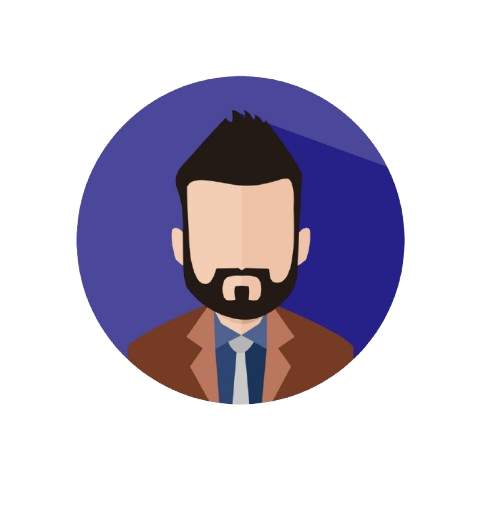
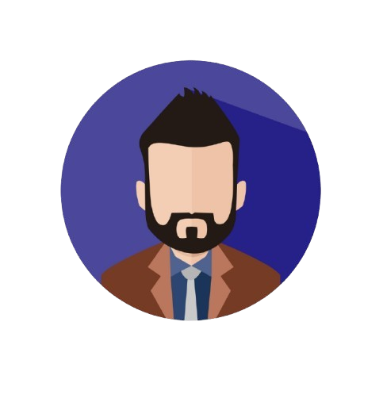
task done

diff --git a/Next.js Work/FE-BE-strapi5/frontend/src/components/Category.jsx b/Next.js Work/FE-BE-strapi5/frontend/src/components/Category.jsx
@@ -1,11 +1,245 @@
-import React from 'react'
+"use client";
 
-const Category = () => {
-  return (
-    <div>
-      Hello Category! 
-    </div>
-  )
-}
+import React, { useState, useEffect } from "react";
+import Layout from "../components/Layout";
+import axios from "axios";
 
-export default Category
+const Category = () => 
+{
+    const [categories, setCategories] = useState([]);
+    const [loading, setLoading] = useState(true);  
+    const [error, setError] = useState(null);
+    const [searchTerm, setSearchTerm] = useState("");
+    const [showModal, setShowModal] = useState(false);
+    const [isEditing, setIsEditing] = useState(false);
+    const [editCategoryId, setEditCategoryId] = useState(null);
+    const [categoryName, setCategoryName] = useState("");
+
+
+    useEffect(() => 
+    {
+        const getCategories = async () => 
+        {
+            try 
+            {
+              const response = await axios.get("http://localhost:1337/api/categories");
+              setCategories(response.data.data);
+              setLoading(false);
+            } 
+            catch (err) 
+            {
+              setError("Could not load categories");
+              setLoading(false);
+            }
+        };
+
+        getCategories();
+
+    }, []);
+
+
+    const handleDelete = async (documentId) => 
+    {
+        try 
+        {
+          await axios.delete(`http://localhost:1337/api/categories/${documentId}`);
+          setCategories(categories.filter((category) => category.documentId !== documentId));
+          alert("Category deleted!");
+        } 
+        catch (err) 
+        {
+          alert("Failed to delete category");
+        }
+    };
+
+
+    const handleSubmit = async (e) => 
+    {
+        e.preventDefault();
+        try 
+        {
+            const token = localStorage.getItem("token");
+
+            if (!token) 
+            {
+                alert("Please log in first");
+                return;
+            }
+
+            const categoryData = 
+            {
+                data: 
+                {
+                    Name: categoryName,
+                },
+            };
+
+            if (isEditing) 
+            {
+                const response = await axios.put( `http://localhost:1337/api/categories/${editCategoryId}`, categoryData,
+                {
+                  headers: 
+                  {
+                    Authorization: `Bearer ${token}`,
+                  },
+                }
+                );
+
+                setCategories(categories.map((category) => category.documentId === editCategoryId ? response.data.data : category));
+                alert("Category updated!");
+
+            } 
+            else 
+            {
+                const response = await axios.post("http://localhost:1337/api/categories", categoryData, 
+                {
+                  headers: 
+                  {
+                    Authorization: `Bearer ${token}`,
+                  },
+                });
+                setCategories([...categories, response.data.data]);
+                alert("Category added!");
+            }
+
+
+            setShowModal(false);
+            setCategoryName("");
+            setIsEditing(false);
+            setEditCategoryId(null);
+        } 
+        catch (err) 
+        {
+            alert("Something went wrong: " + (err.response?.data?.error?.message || err.message));
+        }
+    };
+
+
+    const handleEditClick = (category) => 
+    {
+        setIsEditing(true);
+        setEditCategoryId(category.documentId);
+        setCategoryName(category.attributes?.Name || category.Name || "");
+        setShowModal(true);
+    };
+
+
+    const handleAddClick = () => {
+        setIsEditing(false);
+        setCategoryName("");
+        setShowModal(true);
+    };
+
+
+    const filteredCategories = categories.filter((category) =>(category.attributes?.Name || category.Name || "") .toLowerCase() .includes(searchTerm.toLowerCase()));
+
+
+    if (loading) 
+    {
+        return (
+            <Layout>
+                <div className="text-center p-6">Loading...</div>
+            </Layout>
+        );
+    }
+
+
+    if (error) 
+    {
+        return (
+            <Layout>
+                <div className="text-center p-6 text-red-600">{error}</div>
+            </Layout>
+        );
+    }
+
+    return (
+        <Layout>
+            <div className="bg-gradient-to-br from-blue-50 to-gray-100 p-6 rounded-lg shadow-lg">
+    
+                <div className="flex justify-between items-center mb-6">
+                  
+                    <h2 className="text-2xl font-extrabold text-gray-800">Category Management</h2>
+                    <button onClick={handleAddClick} className="bg-blue-600 text-white px-4 py-2 rounded-lg hover:bg-blue-700" > + Add Category </button>
+
+                </div>
+
+
+                <div className="mb-6">
+                    <input type="text" placeholder="Search categories..." value={searchTerm} onChange={(e) => setSearchTerm(e.target.value)} className="border border-gray-300 p-3 rounded-lg w-full sm:w-1/3 bg-white" />
+                </div>
+
+
+                <table className="w-full bg-white rounded-lg text-left">
+
+                    <thead className="bg-gray-100">
+                        <tr>
+                            <th className="p-3">
+                                <input type="checkbox" />
+                            </th>
+                            <th className="p-3 text-gray-700 font-semibold">ID</th>
+                            <th className="p-3 text-gray-700 font-semibold">NAME</th>
+                            <th className="p-3 text-gray-700 font-semibold">ACTIONS</th>
+                        </tr>
+                    </thead>
+
+                    <tbody>
+                        {filteredCategories.map((category) => (
+                            <tr key={category.id} className="border-b hover:bg-gray-50">
+
+                                <td className="p-3"><input type="checkbox" /></td>
+                                <td className="p-3">{category.id}</td>
+                                <td className="p-3">{category.attributes?.Name || category.Name || "N/A"}</td>
+                                <td className="p-3 flex space-x-4">
+                                    <button onClick={() => handleEditClick(category)} className="text-blue-600 hover:text-blue-800" >
+                                        <svg className="w-6 h-6" fill="none" stroke="currentColor" viewBox="0 0 24 24" >
+                                            <path strokeLinecap="round" strokeLinejoin="round" strokeWidth="2" d="M11 5H6a2 2 0 00-2 2v11a2 2 0 002 2h11a2 2 0 002-2v-5m-1.414-9.414a2 2 0 112.828 2.828L11.828 15H9v-2.828l8.586-8.586z" />
+                                        </svg>
+                                    </button>
+                                    <button onClick={() => handleDelete(category.documentId)} className="text-red-600 hover:text-red-800" >
+                                        <svg className="w-6 h-6" fill="none" stroke="currentColor" viewBox="0 0 24 24" >
+                                            <path strokeLinecap="round" strokeLinejoin="round" strokeWidth="2" d="M19 7l-.867 12.142A2 2 0 0116.138 21H7.862a2 2 0 01-1.995-1.858L5 7m5 4v6m4-6v6m1-10V4a1 1 0 00-1-1h-4a1 1 0 00-1 1v3M4 7h16" />
+                                        </svg>
+                                    </button>
+                                </td>
+
+                            </tr>
+                        ))}
+                    </tbody>
+
+                </table>
+
+            </div>
+
+
+            {showModal && (
+                <div className="fixed inset-0 bg-black bg-opacity-50 flex items-center justify-center">
+                    <div className="bg-white rounded-lg p-6 w-full max-w-md">
+
+                        <h3 className="text-xl font-bold mb-4">
+                            {isEditing ? "Edit Category" : "Add New Category"}
+                        </h3>
+
+                        <form onSubmit={handleSubmit}>
+                        
+                            <div className="mb-4">
+                                <label className="block text-sm font-medium text-gray-700">Name</label>
+                                <input type="text" value={categoryName} onChange={(e) => setCategoryName(e.target.value)} required className="mt-1 w-full border border-gray-300 rounded-lg p-2" />
+                            </div>
+
+
+                            <div className="flex justify-end space-x-2">
+                                <button type="button" onClick={() => { setShowModal(false); setCategoryName(""); setIsEditing(false); setEditCategoryId(null); }} className="bg-gray-300 text-gray-700 px-4 py-2 rounded-lg" >Cancel</button>
+                                <button type="submit" className="bg-blue-600 text-white px-4 py-2 rounded-lg" >{isEditing ? "Update Category" : "Add Category"}</button>
+                            </div>
+
+                        </form>
+
+                    </div>
+                </div>
+            )}
+        </Layout>
+    );
+};
+
+export default Category;

diff --git a/Next.js Work/FE-BE-strapi5/frontend/src/components/Product.jsx b/Next.js Work/FE-BE-strapi5/frontend/src/components/Product.jsx
@@ -242,6 +242,7 @@ const Product = () =>
         return matchesSearch && matchesCategory;
     });
 
+
     if (loading) 
     {
         return(
@@ -251,6 +252,7 @@ const Product = () =>
         );
     }
 
+
     if (error) 
     {
         return (
@@ -259,6 +261,7 @@ const Product = () =>
             </Layout>
         );
     }
+
 
     return (
         <Layout>
@@ -389,40 +392,17 @@ const Product = () =>
                             </div>
                             
                             <div className="mb-4">
-                                <label htmlFor="Image" className="block text-sm font-medium text-gray-700">
-                                    Images
-                                </label>
-                                <input
-                                    type="file"
-                                    id="Image"
-                                    name="Image"
-                                    onChange={handleInputChange}
-                                    accept="image/*"
-                                    multiple
-                                    className="mt-1 block w-full border border-gray-300 rounded-lg p-2 focus:outline-none focus:ring-2 focus:ring-blue-500"
-                                />
+                                <label htmlFor="Image" className="block text-sm font-medium text-gray-700">Images</label>
+                                <input type="file" id="Image" name="Image" onChange={handleInputChange} accept="image/*" multiple className="mt-1 block w-full border border-gray-300 rounded-lg p-2 focus:outline-none focus:ring-2 focus:ring-blue-500" />
                             </div>
+
                             <div className="flex justify-end space-x-2">
-                                <button
-                                    type="button"
-                                    onClick={() => {
-                                        setShowModal(false);
-                                        setFormData({ Name: "", Price: "", Stock: "", category: "", Image: [] });
-                                        setModalMode("add");
-                                        setSelectedProductId(null);
-                                    }}
-                                    className="bg-gray-300 text-gray-700 px-4 py-2 rounded-lg hover:bg-gray-400 transition duration-200"
-                                >
-                                    Cancel
-                                </button>
-                                <button
-                                    type="submit"
-                                    className="bg-blue-600 text-white px-4 py-2 rounded-lg hover:bg-blue-700 transition duration-200"
-                                >
-                                    {modalMode === "add" ? "Add Product" : "Update Product"}
-                                </button>
+                                <button type="button" onClick={() => { setShowModal(false); setFormData({ Name: "", Price: "", Stock: "", category: "", Image: [] }); setModalMode("add"); setSelectedProductId(null); }} className="bg-gray-300 text-gray-700 px-4 py-2 rounded-lg hover:bg-gray-400 transition duration-200" >Cancel</button>
+                                <button type="submit" className="bg-blue-600 text-white px-4 py-2 rounded-lg hover:bg-blue-700 transition duration-200" >{modalMode === "add" ? "Add Product" : "Update Product"}</button>
                             </div>
+
                         </form>
+                        
                     </div>
                 </div>
             )}

diff --git a/Next.js Work/FE-BE-strapi5/frontend/src/components/Profile.jsx b/Next.js Work/FE-BE-strapi5/frontend/src/components/Profile.jsx
@@ -4,6 +4,8 @@ import React, { useEffect, useState } from "react";
 import Layout from "./Layout";
 import { useUser } from "./UserContext";
 import { useRouter } from "next/navigation";
+import Image from "next/image";
+import profile2 from "../../public/profile2.png";
 
 const Profile = () => 
 {
@@ -46,7 +48,15 @@ const Profile = () =>
         <div className="flex flex-col md:flex-row items-center justify-between gap-6 mb-8">
 
           <div className="flex items-center space-x-6">
-            <img src={user?.photoURL} alt="Profile" className="w-24 h-24 rounded-full border-4 border-purple-200 object-cover shadow-md" />
+            <Image
+              src={profile2} 
+              alt="Profile"
+              width={96}
+              height={96}
+              className="rounded-full border-4 border-purple-200 shadow-md"
+              objectFit="cover" 
+            />
+
             <div className="flex flex-col">
               <h2 className="text-2xl font-semibold text-gray-900">{user?.displayName}</h2>
               <p className="text-sm text-gray-600">Admin User</p>

diff --git a/Next.js Work/FE-BE-strapi5/frontend/src/components/Header.jsx b/Next.js Work/FE-BE-strapi5/frontend/src/components/Header.jsx
@@ -6,6 +6,7 @@ import { useUser } from "./UserContext";
 import { FaUserCircle, FaCaretDown } from "react-icons/fa";
 import Image from "next/image";
 import Link from "next/link";
+import profile2 from "../../public/profile2.png";
 
 const Header = () => 
 {
@@ -56,7 +57,7 @@ const Header = () =>
 
       {isClient && user && (
         <div className="flex items-center space-x-4">
-          <Image src={profileImageUrl} alt={user.displayName || "User Profile"} width={48} height={48} className="rounded-full border-2 border-blue-200 shadow-md transition-transform duration-300 hover:scale-110" />
+          <Image src={profile2} alt={user.displayName || "User Profile"} width={48} height={48} className="rounded-full border-2 border-blue-200 shadow-md transition-transform duration-300 hover:scale-110" />
           <div className="relative">
 
             <div className="flex items-center space-x-2 cursor-pointer group">

diff --git a/Next.js Work/FE-BE-strapi5/frontend/src/app/category/page.js b/Next.js Work/FE-BE-strapi5/frontend/src/app/category/page.js
@@ -1,13 +1,10 @@
 import Category from '@/components/Category'
-import Layout from '@/components/Layout'
 import React from 'react'
 
 const page = () => {
   return (
     <>
-    <Layout>
-     <Category /> 
-     </Layout>
+      <Category />
     </>
   )
 }
